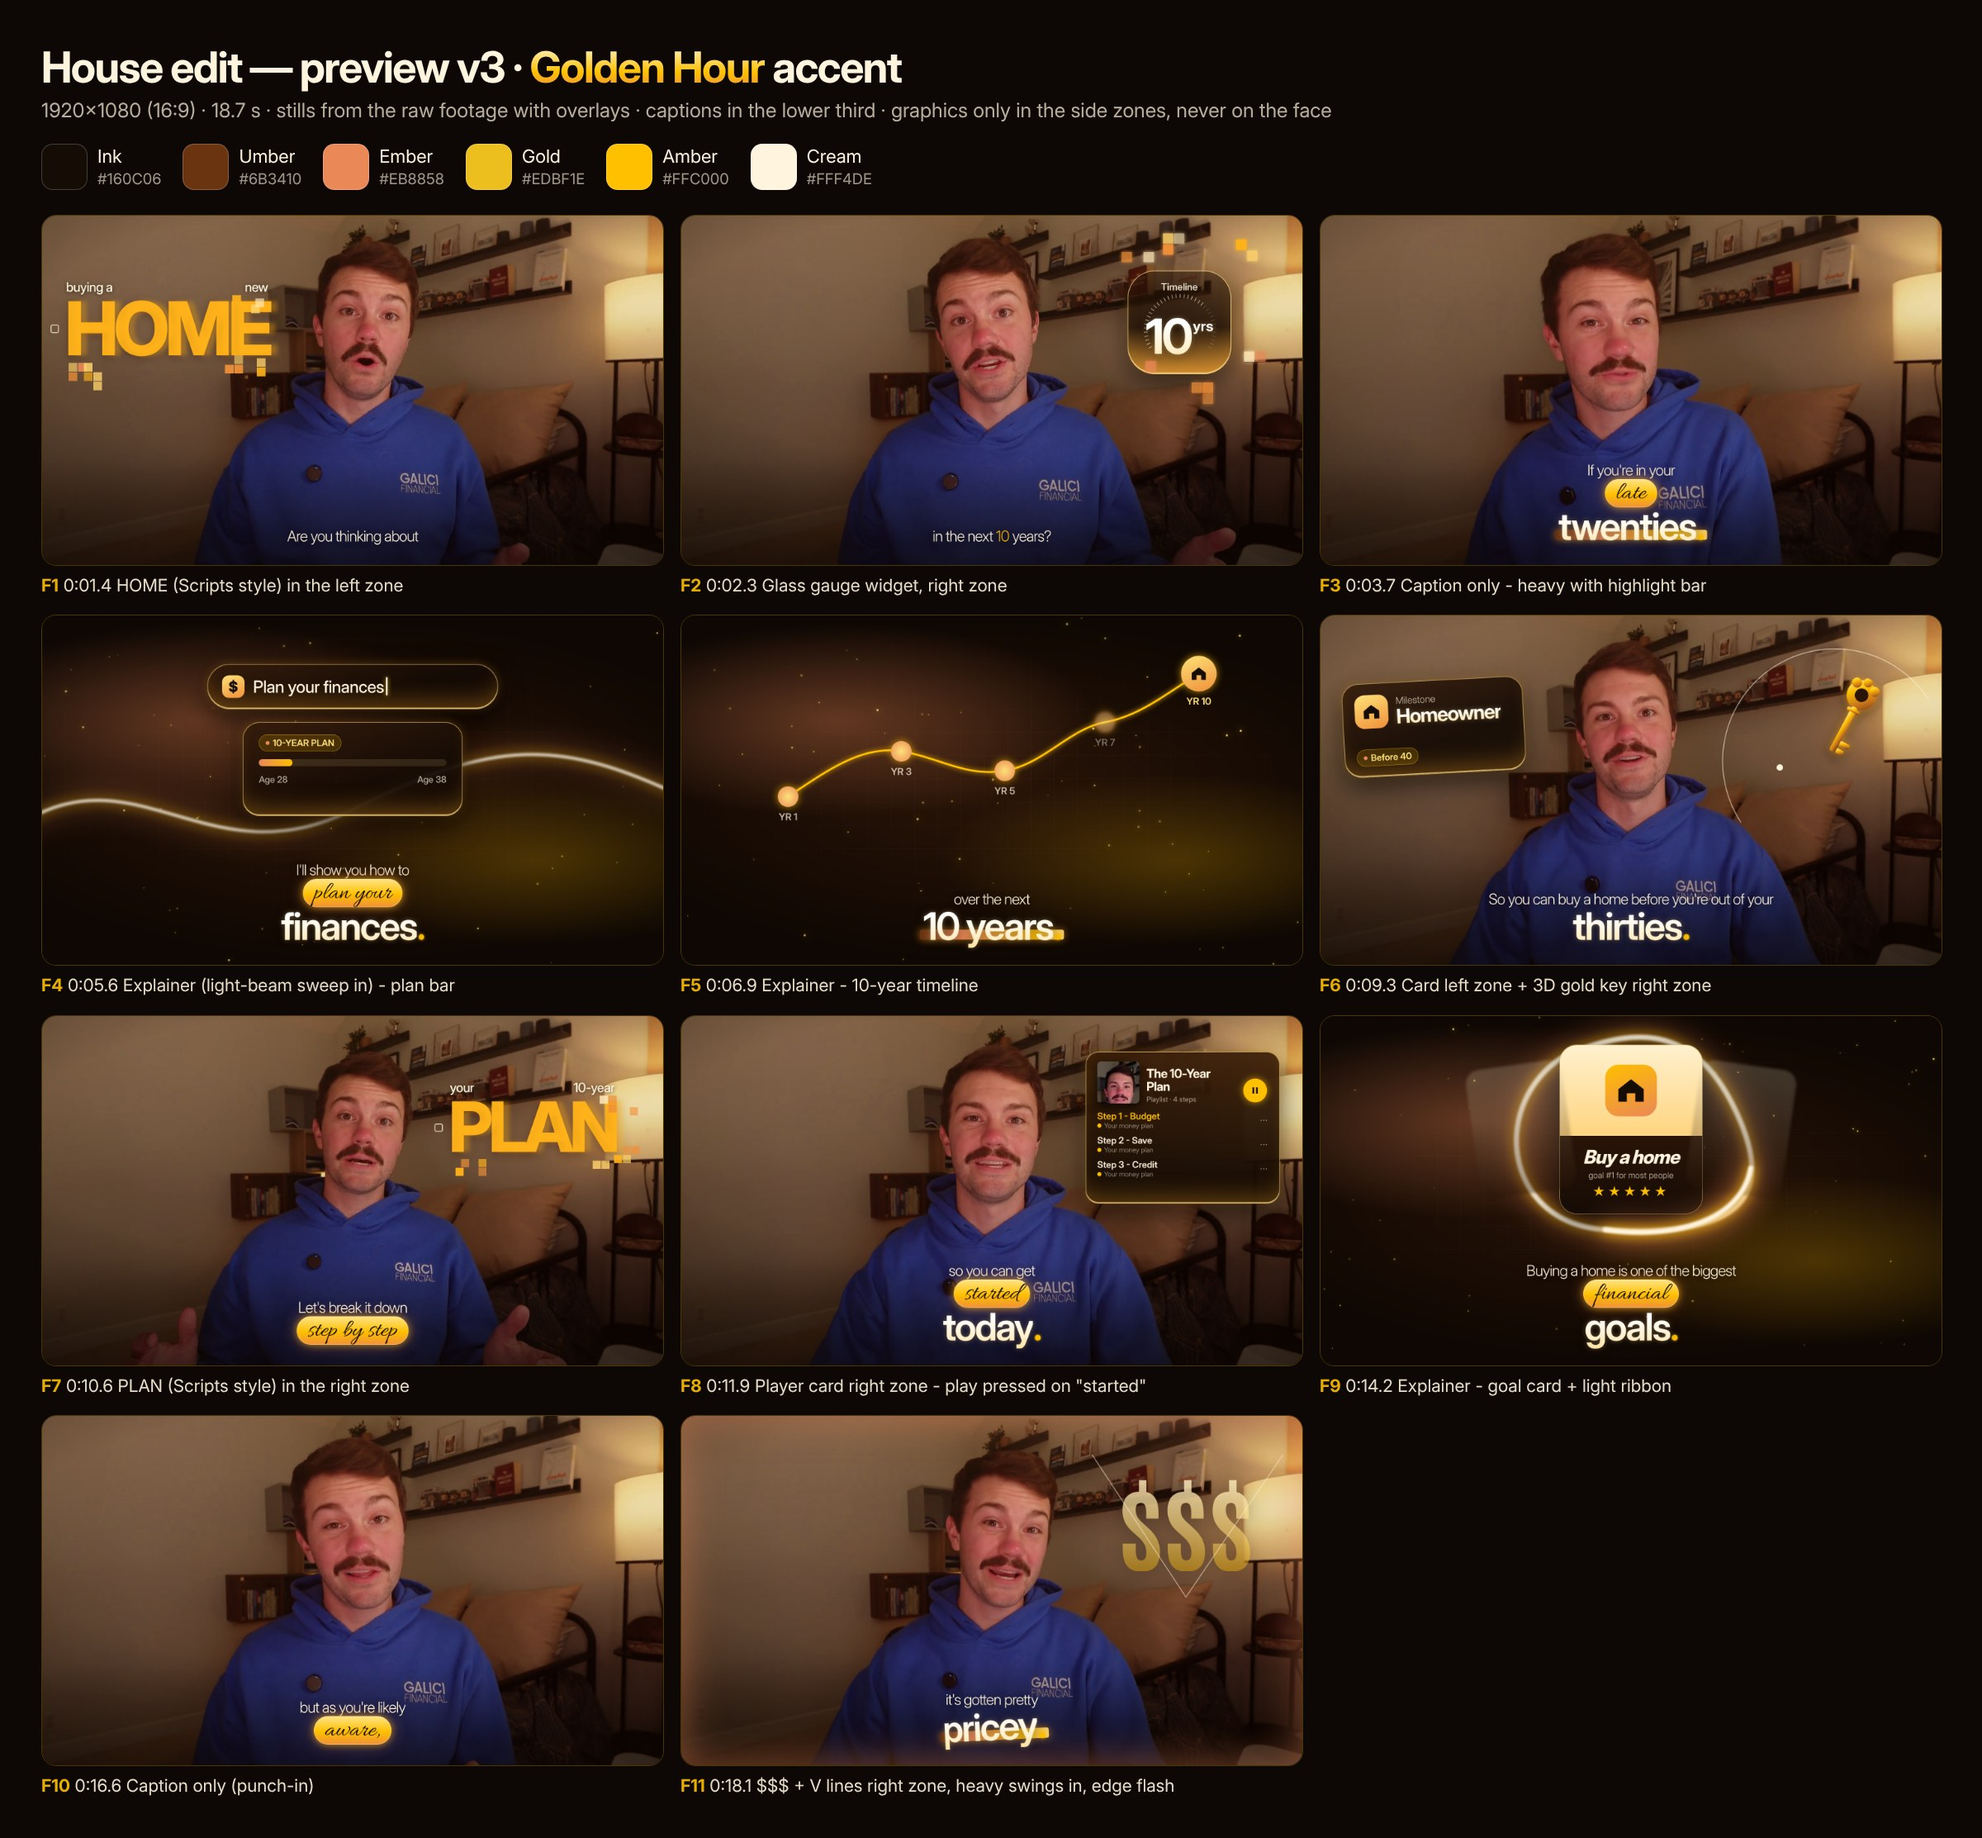
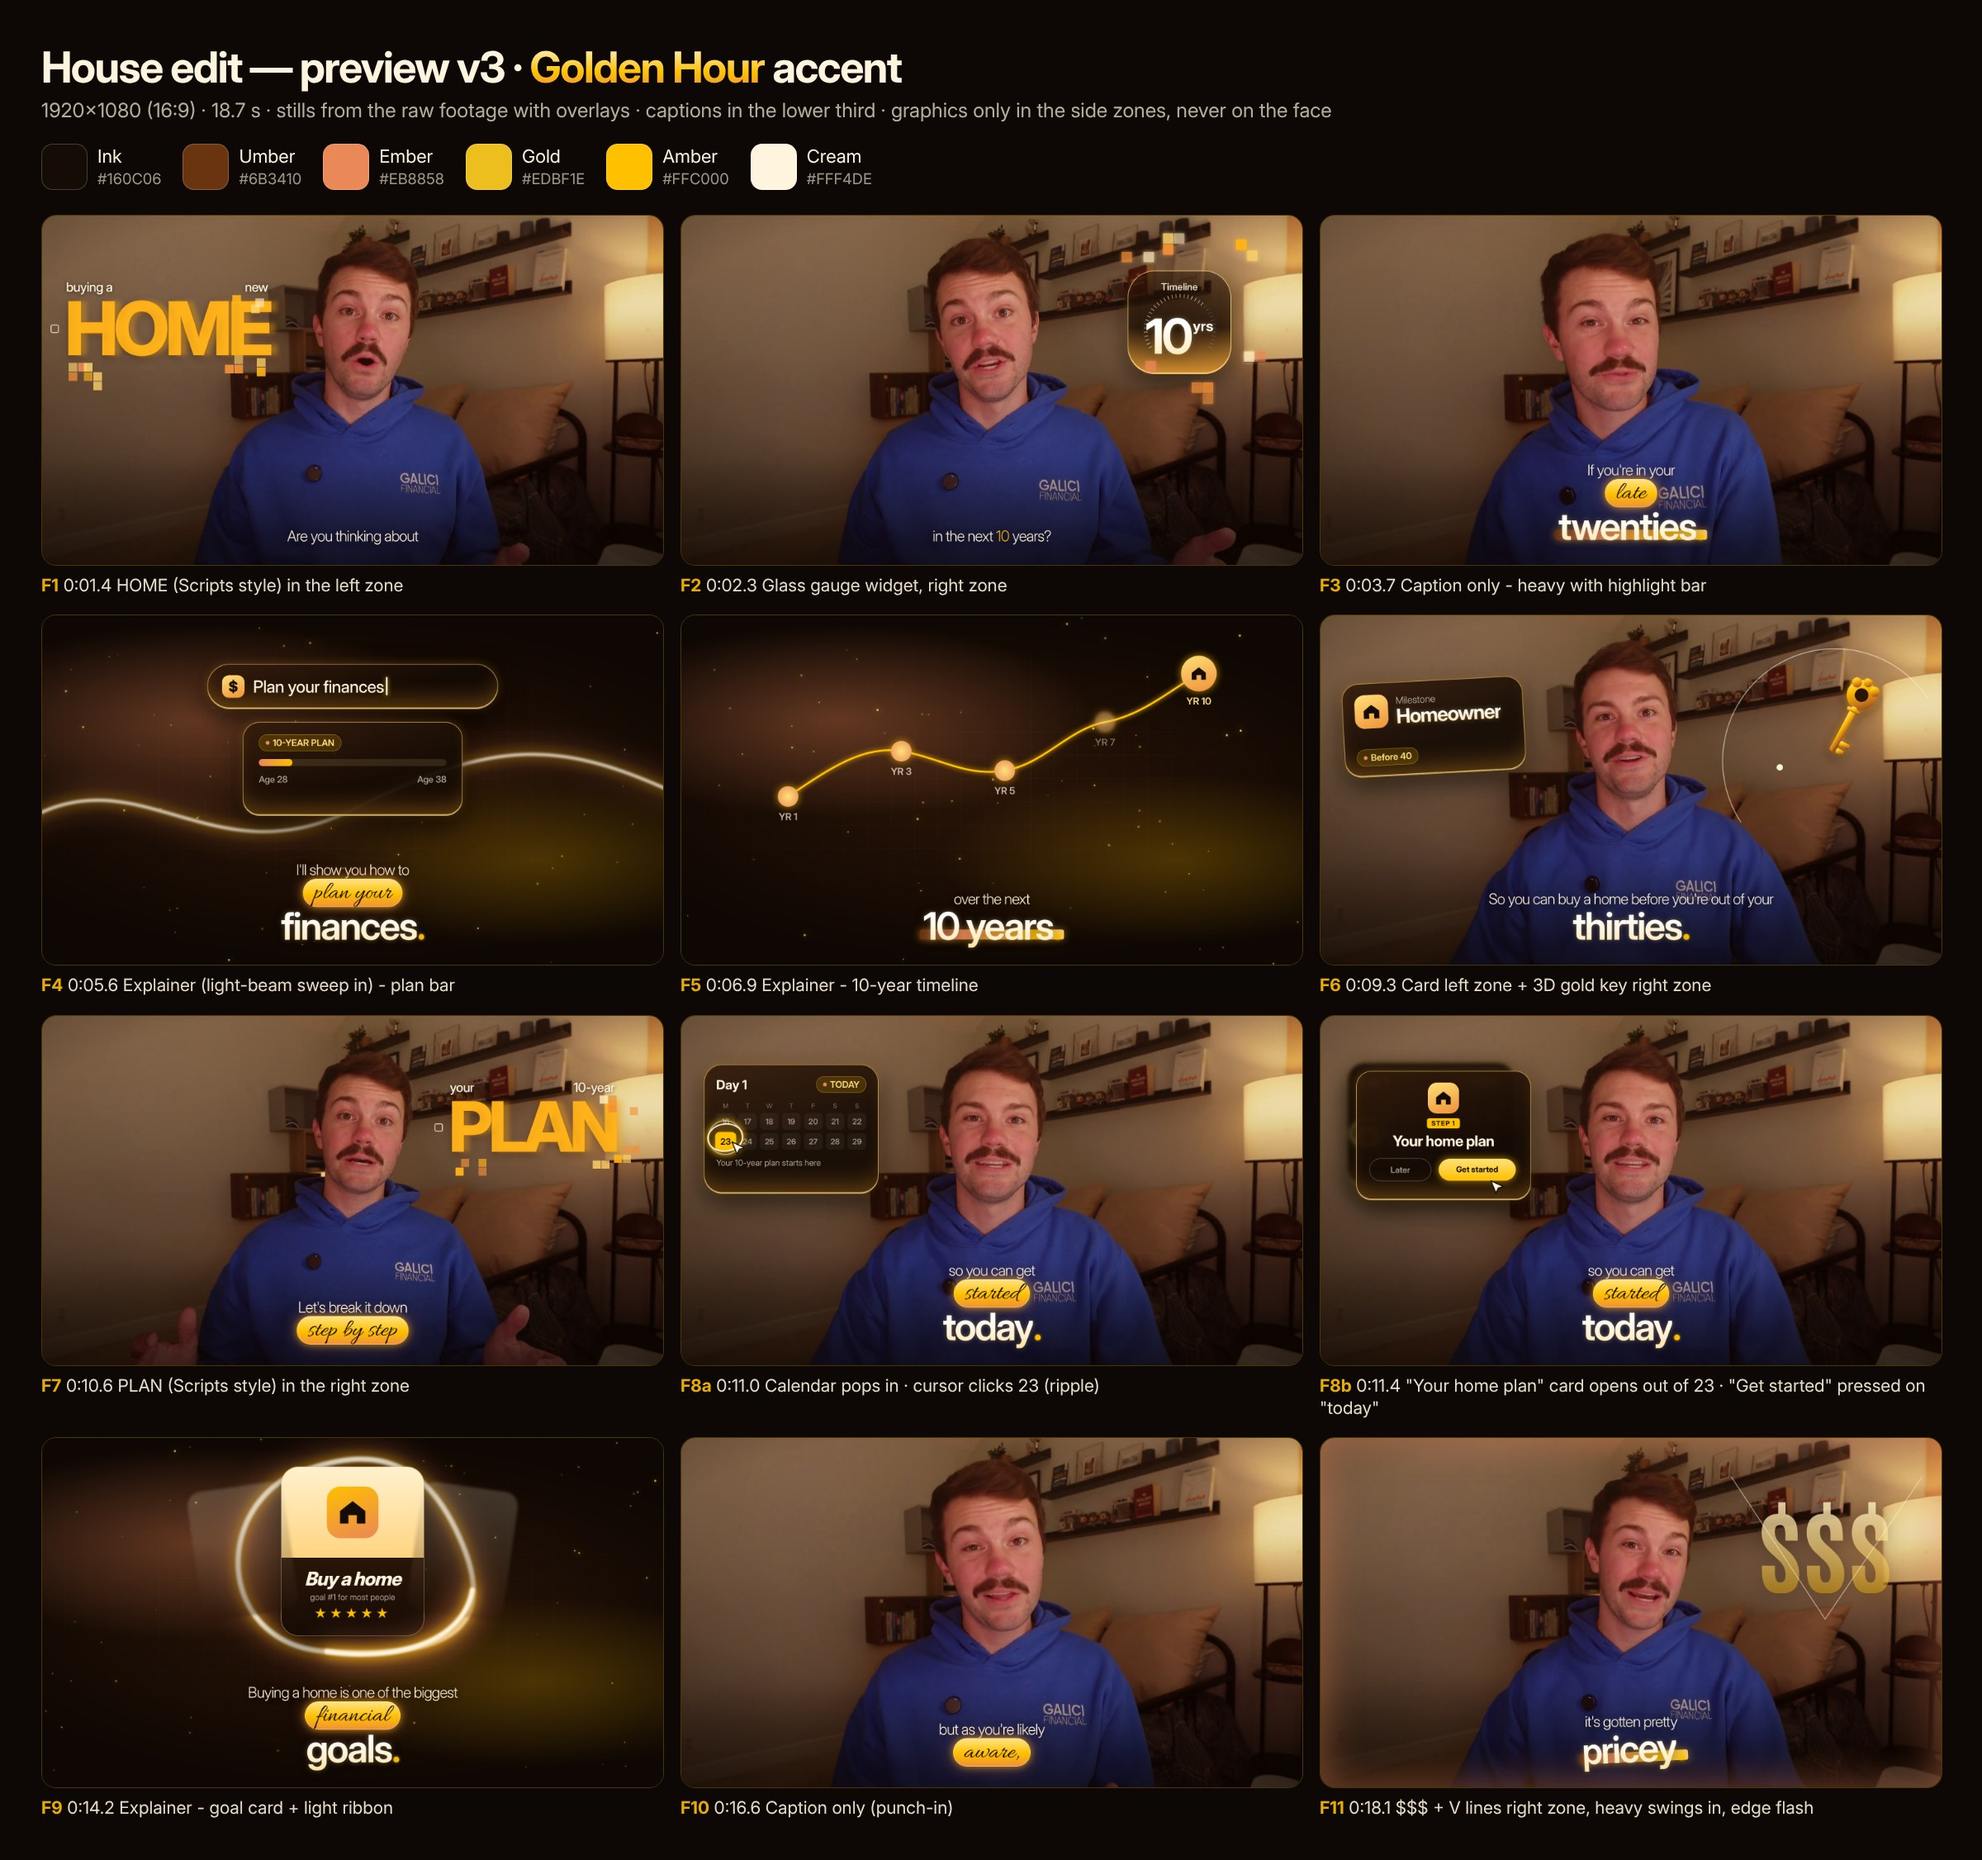
House edit: F8 becomes calendar click on 23 that opens the home-plan card
Claude-Session: https://claude.ai/code/session_01YWNjH6CBLBiGPLWhgZV3Ey

diff --git a/edit/house/preview_v3/src/gen3b.py b/edit/house/preview_v3/src/gen3b.py
@@ -27,3 +27,21 @@ for k,(label,body) in {'8A':A,'8B':B,'8C':C}.items():
     html=talk('11.95', front=body) + caption3('so you can get', 'started', 'today')
     open(f'h{k}.html','w').write(f'<!doctype html><html><head><meta charset="utf-8"><style>{CSS}</style></head><body><div class="stage">{html}</div></body></html>')
 import json; json.dump({k:['11.95',v[0]] for k,v in {'8A':A,'8B':B,'8C':C}.items()}, open('frames3b.json','w'))
+
+# 8BC: calendar (left zone) + CTA card (right zone)
+Bl = B[1].replace('left:1290px;top:150px', 'left:70px;top:150px').replace('cx="1356" cy="376"', 'cx="136" cy="376"').replace('rotate(-8 1356 376)', 'rotate(-8 136 376)')
+html = talk('11.95', front=Bl + C[1]) + caption3('so you can get', 'started', 'today')
+open('h8BC.html','w').write(f'<!doctype html><html><head><meta charset="utf-8"><style>{CSS}</style></head><body><div class="stage">{html}</div></body></html>')
+json.dump({'8BC':['11.95','8 B+C']}, open('frames3c.json','w'))
+
+# 8 sequence: (1) cursor clicks 23 on the calendar, (2) home card opens out of the 23 cell, over the dimmed calendar (left zone)
+ripple = '<div style="position:absolute;left:96px;top:336px;width:80px;height:80px;border-radius:50%;border:3px solid rgba(255,244,222,.8);box-shadow:0 0 18px #FFC000;transform:scale(1.35);opacity:.7"></div>'
+s1 = Bl + ripple + CUR.format(s='left:150px;top:385px')
+cal_dim = '<div style="filter:blur(6px) brightness(.55);transform:scale(.96);transform-origin:20% 50%">' + Bl + '</div>'
+card = C[1].replace('left:1290px;top:170px', 'left:110px;top:170px').replace("CUR", "")
+card = re.sub(r'<svg viewBox="0 0 24 24" style="position:absolute;left:1700px;top:505px".*?</svg>', '', card, flags=re.S)
+s2 = cal_dim + card + CUR.format(s='left:520px;top:505px')
+for k,body in {'8S1':s1,'8S2':s2}.items():
+    html = talk('11.95', front=body) + caption3('so you can get', 'started', 'today')
+    open(f'h{k}.html','w').write(f'<!doctype html><html><head><meta charset="utf-8"><style>{CSS}</style></head><body><div class="stage">{html}</div></body></html>')
+json.dump({'8S1':['11.95','8.1'],'8S2':['11.95','8.2']}, open('frames3c.json','w'))

diff --git a/edit/house/STORYBOARD.md b/edit/house/STORYBOARD.md
@@ -1,5 +1,7 @@
 # House video: storyboard v3 (waiting for approval, not built)
 
+## v3.1: F8 is now a sequence: calendar → click on 23 → "Your home plan" card opens out of it (left zone)
+
 ## v3 changes: 16:9 frame, captions in the lower third, nothing on the face
 - **Canvas:** 1920×1080 (16:9). This is the full source frame, with no crop and no upscale.
 - **Captions** sit in the **lower third**. Each caption block ends 64 px above the bottom edge and never starts above y = 720.
@@ -93,7 +95,7 @@ The caption lockup is: L1 = Inter Display Light 58 px (the current word types on
 | 5 | 5.90–7.12 | over the next 10 years. | Explainer (continues) | over the next / **10 years** | **10-year timeline**: an amber ink line draws through nodes YR 1 → 3 → 5 → 7 → 10. Each node goes from ghost to sharp. The YR 10 node is a house icon. | line starts f177 · YR10 on "years" f206 | F5 |
 | 6 | 7.18–9.44 | So you can buy a home before you're out of your thirties. | **Card on chest** | So you can buy a home before you're out of your / **thirties** | **Whip-in milestone card**: house icon, "Homeowner", chips "Before 40" and "Keys ready". Zoom-blur cut back to the speaker. | cut f215 · card on "home" f242 · thirties f274 | F6 |
 | 7 | 9.70–10.94 | Let's break it down step by step | **Name behind head** | Let's break it down / *step by step* | **PLAN** behind the head. Pill tag "STEP BY STEP" with a cursor. | PLAN on "break" f295 | F7 |
-| 8 | 10.94–12.20 | so you can get started today. | **Caption only** | so you can get / *started* / **today** | Swoosh streak above the caption. 4 f punch-in. | started f349 · today f357 | F8 |
+| 8 | 10.94–12.20 | so you can get started today. | **Card sequence (left zone)** | so you can get / *started* / **today** | (a) A glass **"Day 1" calendar** pops in, and the cursor **clicks 23** (today) with a ripple. (b) The 23 cell **expands into the "Your home plan" card**, using the quest-card morph: clip-path inset + radius over 8 f, with a glow bloom. The calendar blurs and dims behind it. On "today" the cursor **presses "Get started"**. | calendar in f328 · click 23 f335 · card morph f335–343 · "Get started" pressed f356 | F8a, F8b |
 | 9 | 12.44–15.32 | Buying a home is one of the biggest financial goals for a lot of people, | **Full-background explainer** | Buying a home is one of the biggest / *financial* / **goals** → then "for a lot of people," | **Goals board** (input bar → card): Emergency fund · Retirement · Pay off debt · **Buy a home** (highlighted, cursor click) | cut f373 · highlight on "home" f383 · goals f422 | F9 |
 | 10 | 15.66–16.98 | but as you're likely aware, | **Caption only** | but as you're likely / *aware,* | Cut back to the speaker. Slow push. | aware f497 | F10 |
 | 11 | 17.20–18.67 | it's gotten pretty pricey. | **Card on chest** | it's gotten pretty / **pricey** | **"Home prices" card**: the amber line chart draws upward and a $ tile drops in. Ember edge flash on "pricey". Then a short fade to end. | chart f516 · pricey + flash f538 · fade f548–560 | F11 |
